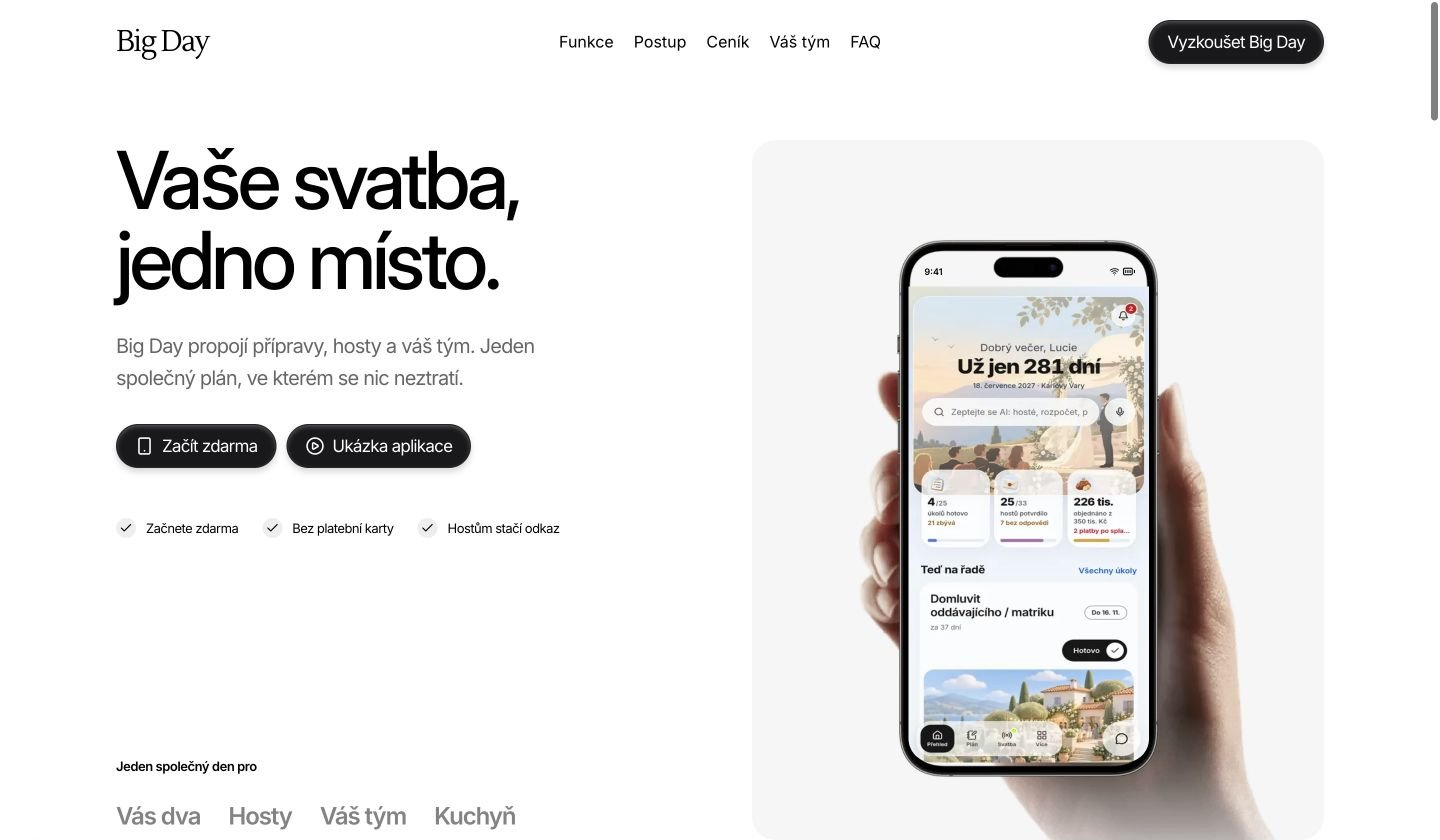
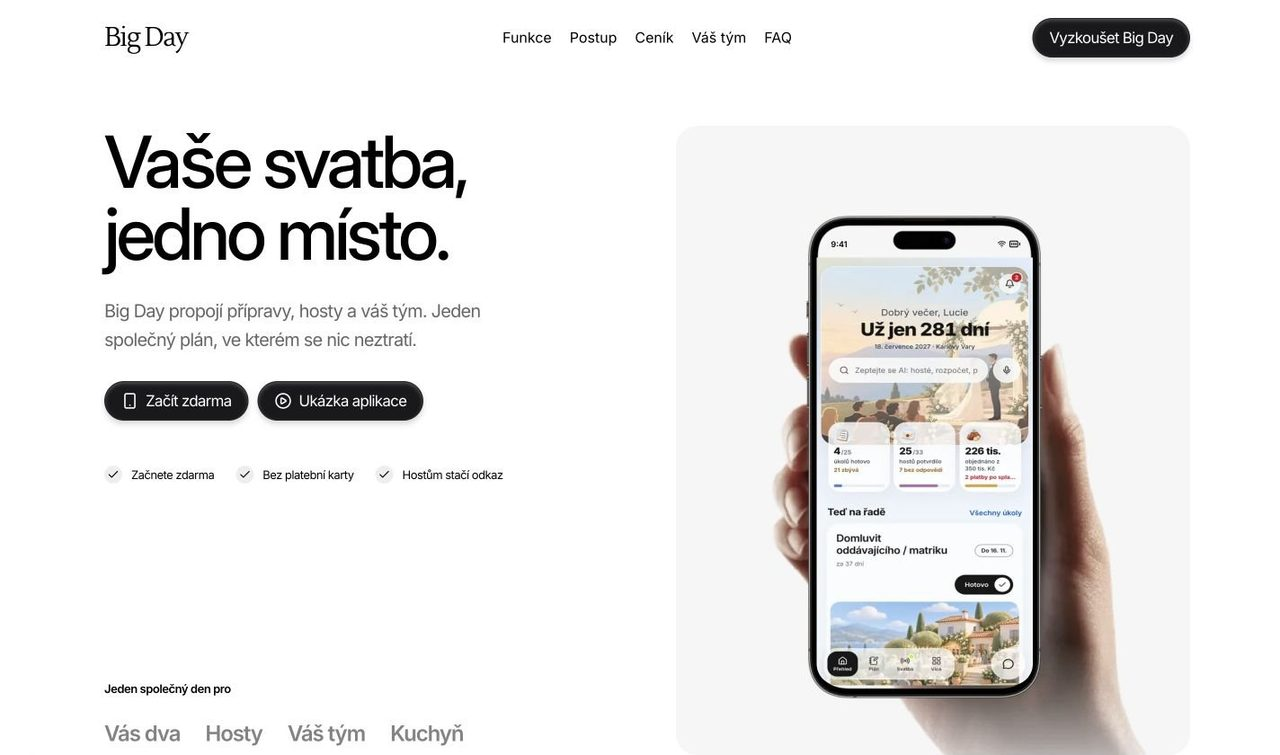
Portfolio: ukázky v rámečcích zařízení, živý prototyp Coach v telefonu, nové screenshoty
Claude-Session: https://claude.ai/code/session_01WdvKpJUzqNwqn5TbK6aWfq

diff --git a/index.html b/index.html
@@ -77,6 +77,51 @@ footer p{margin:0;max-width:70ch}
   .phones.four{grid-template-columns:repeat(4,160px)}
 }
 @media (prefers-reduced-motion:reduce){*{transition:none!important}}
+
+:root{--chrome:#ECEFF3;--dot:#C6CBD3;--bezel:#15171B}
+@media (prefers-color-scheme: dark){:root:not([data-theme="light"]){--chrome:#22252B;--dot:#3B404A}}
+:root[data-theme="dark"]{--chrome:#22252B;--dot:#3B404A}
+html{scroll-behavior:smooth}
+@media (prefers-reduced-motion:reduce){html{scroll-behavior:auto}}
+.project{scroll-margin-top:24px}
+.toc{display:flex;flex-wrap:wrap;gap:8px;margin-top:-40px}
+.toc a{padding:6px 14px;border:1px solid var(--line);border-radius:999px;text-decoration:none;color:var(--fg);font-size:14px}
+.toc a:hover,.toc a:focus-visible{border-color:var(--accent);color:var(--accent)}
+.frame{margin:0;display:flex;flex-direction:column;gap:10px;min-width:0}
+.frame figcaption{font-size:14px;color:var(--muted)}
+.win{border-radius:12px;overflow:hidden;border:1px solid var(--line);background:var(--surface);box-shadow:0 1px 2px rgba(16,24,40,.05),0 14px 34px -14px rgba(16,24,40,.22)}
+.win-bar{display:flex;align-items:center;gap:12px;height:34px;padding:0 14px;background:var(--chrome);border-bottom:1px solid var(--line)}
+.dots{display:flex;gap:6px;flex-shrink:0}.dots i{width:10px;height:10px;border-radius:50%;background:var(--dot)}
+.addr{flex:1;min-width:0;max-width:380px;margin:0 auto;height:22px;border-radius:6px;background:var(--bg);color:var(--muted);font:12px/22px var(--mono);text-align:center;overflow:hidden;white-space:nowrap;text-overflow:ellipsis;padding:0 10px}
+.win-title{flex:1;min-width:0;text-align:center;font-size:12.5px;font-weight:500;color:var(--muted);padding-right:46px;overflow:hidden;white-space:nowrap;text-overflow:ellipsis}
+.win a,.win img{display:block}
+.win img{width:100%;height:auto;border:0;border-radius:0}
+.pair{display:grid;grid-template-columns:repeat(2,minmax(0,1fr));gap:20px}
+.mac-wrap{max-width:900px}
+.phone{position:relative;width:100%;aspect-ratio:9/19.5;border-radius:15%/7%;padding:3.4%;background:var(--bezel);box-shadow:inset 0 0 0 1.5px #34373f,0 18px 40px -16px rgba(16,24,40,.38)}
+.phone .screen{position:relative;width:100%;height:100%;border-radius:11.5%/5.3%;overflow:hidden;background:#fff}
+.phone .screen img{width:100%;height:100%;object-fit:cover;object-position:top;display:block;border:0;border-radius:0}
+.phone .island{position:absolute;top:3.1%;left:50%;transform:translateX(-50%);width:28%;height:2.9%;border-radius:999px;background:#000;z-index:3;pointer-events:none}
+.phone-row{display:grid;grid-template-columns:repeat(5,minmax(0,1fr));gap:22px;overflow-x:auto;padding:6px 2px 10px}
+.phone-row figure{margin:0;display:flex;flex-direction:column;gap:10px;align-items:center}
+.phone-row figcaption{font-size:13px;color:var(--muted)}
+.coach-demo{display:grid;grid-template-columns:minmax(0,1fr) auto;gap:32px 56px;align-items:center}
+.coach-side{display:flex;flex-direction:column;gap:18px;min-width:0}
+.coach-side p{margin:0;max-width:52ch;text-wrap:pretty}
+.tabs{display:flex;flex-wrap:wrap;gap:8px}
+.tabs button{font:inherit;font-size:14px;font-weight:500;padding:8px 16px;border-radius:999px;border:1px solid var(--line);background:var(--bg);color:var(--fg);cursor:pointer}
+.tabs button[aria-selected="true"]{background:var(--fg);color:var(--bg);border-color:var(--fg)}
+.tabs button:focus-visible{outline:2px solid var(--accent);outline-offset:2px}
+.phone-live{width:320px;max-width:100%}
+.phone-live iframe{position:absolute;top:0;left:0;width:390px;height:844px;border:0;transform-origin:0 0;background:#f9f9f9}
+.hint{font-size:14px;color:var(--muted)}
+@media (max-width:760px){
+  .pair{grid-template-columns:minmax(0,1fr)}
+  .phone-row{grid-template-columns:repeat(5,150px)}
+  .coach-demo{grid-template-columns:minmax(0,1fr);justify-items:center}
+  .coach-side{justify-self:stretch}
+  .toc{margin-top:-24px}
+}
 </style>
 <style>img{max-width:100%}</style>
 </head>
@@ -95,6 +140,8 @@ footer p{margin:0;max-width:70ch}
       <span>Sokolov · práce na dálku i osobně</span>
     </div>
   </header>
+
+  <nav class="toc" aria-label="Projekty"><a href="#p-bigday">Big Day</a><a href="#p-rescue">iPhone Rescue</a><a href="#p-aela">AELA</a><a href="#p-klaster">Klášterní areál Ostrov</a><a href="#p-willy">Willy</a><a href="#p-coach">Coach</a></nav>
 
   <section class="project" aria-labelledby="p-bigday">
     <div class="phead">
@@ -119,17 +166,8 @@ footer p{margin:0;max-width:70ch}
         <p class="stack">Next.js 16 · React 19 · TypeScript · PostgreSQL · Drizzle · PWA · Ollama / OpenAI API</p>
       </div>
     </div>
-    <figure class="shot">
-      <img src="img/bigday-landing.jpg" alt="Úvodní stránka Big Day s nadpisem Vaše svatba, jedno místo a telefonem s aplikací" width="1440" height="840" loading="eager">
-      <figcaption>Úvodní stránka produktu</figcaption>
-    </figure>
-    <div class="phones" role="list" aria-label="Obrazovky aplikace Big Day">
-      <figure role="listitem"><img src="img/bigday-01-prehled.jpg" alt="Přehled s odpočtem dní do svatby a úkoly" width="440" height="956" loading="lazy"><figcaption>Přehled</figcaption></figure>
-      <figure role="listitem"><img src="img/bigday-02-zivy-den.jpg" alt="Živý režim svatebního dne s aktuálním bodem programu" width="440" height="956" loading="lazy"><figcaption>Živý den</figcaption></figure>
-      <figure role="listitem"><img src="img/bigday-03-hoste.jpg" alt="Seznam hostů s potvrzením účasti" width="440" height="956" loading="lazy"><figcaption>Hosté</figcaption></figure>
-      <figure role="listitem"><img src="img/bigday-04-harmonogram.jpg" alt="Harmonogram dne s časy a místy" width="440" height="956" loading="lazy"><figcaption>Harmonogram</figcaption></figure>
-      <figure role="listitem"><img src="img/bigday-05-rozpocet.jpg" alt="Rozpočet svatby s objednanými a zaplacenými položkami" width="440" height="956" loading="lazy"><figcaption>Rozpočet</figcaption></figure>
-    </div>
+    <figure class="frame"><div class="win"><div class="win-bar"><span class="dots" aria-hidden="true"><i></i><i></i><i></i></span><span class="addr">Big Day · úvodní stránka</span></div><a href="img/bigday-landing.jpg" target="_blank" rel="noopener"><img src="img/bigday-landing.jpg" alt="Úvodní stránka Big Day s nadpisem Vaše svatba, jedno místo" width="1280" height="755" loading="eager"></a></div><figcaption>Úvodní stránka produktu</figcaption></figure>
+    <div class="phone-row" role="list" aria-label="Obrazovky aplikace Big Day"><figure role="listitem"><div class="phone"><div class="screen"><img src="img/bigday-01-prehled.jpg" alt="Přehled s odpočtem dní do svatby a úkoly" width="440" height="956" loading="lazy"></div></div><figcaption>Přehled</figcaption></figure><figure role="listitem"><div class="phone"><div class="screen"><img src="img/bigday-02-zivy-den.jpg" alt="Živý režim svatebního dne s aktuálním bodem programu" width="440" height="956" loading="lazy"></div></div><figcaption>Živý den</figcaption></figure><figure role="listitem"><div class="phone"><div class="screen"><img src="img/bigday-03-hoste.jpg" alt="Seznam hostů s potvrzením účasti" width="440" height="956" loading="lazy"></div></div><figcaption>Hosté</figcaption></figure><figure role="listitem"><div class="phone"><div class="screen"><img src="img/bigday-04-harmonogram.jpg" alt="Harmonogram dne s časy a místy" width="440" height="956" loading="lazy"></div></div><figcaption>Harmonogram</figcaption></figure><figure role="listitem"><div class="phone"><div class="screen"><img src="img/bigday-05-rozpocet.jpg" alt="Rozpočet svatby s objednanými a zaplacenými položkami" width="440" height="956" loading="lazy"></div></div><figcaption>Rozpočet</figcaption></figure></div>
   </section>
 
   <hr>
@@ -157,10 +195,7 @@ footer p{margin:0;max-width:70ch}
         <p class="stack">Swift 6 · SwiftUI · macOS 14+ · bez externích knihoven</p>
       </div>
     </div>
-    <figure class="shot">
-      <img src="img/rescue-overview.jpg" alt="Přehled aplikace iPhone Rescue s připojeným iPhonem 14 Pro a mřížkou nástrojů" width="1440" height="1024" loading="lazy">
-      <figcaption>Přehled s ukázkovými daty, žádný skutečný telefon není připojený</figcaption>
-    </figure>
+    <figure class="frame"><div class="win"><div class="win-bar"><span class="dots" aria-hidden="true"><i></i><i></i><i></i></span><span class="win-title">iPhone Rescue</span></div><a href="img/rescue-overview.jpg" target="_blank" rel="noopener"><img src="img/rescue-overview.jpg" alt="Přehled aplikace iPhone Rescue s připojeným iPhonem 14 Pro a mřížkou nástrojů" width="1440" height="1024" loading="lazy"></a></div><figcaption>Přehled s ukázkovými daty, žádný skutečný telefon není připojený</figcaption></figure>
   </section>
 
   <hr>
@@ -187,10 +222,8 @@ footer p{margin:0;max-width:70ch}
         <p class="stack">HTML · CSS · JavaScript · Cloudflare</p>
       </div>
     </div>
-    <figure class="shot">
-      <img src="img/aela-hero.jpg" alt="Úvodní stránka webu AELA s nadpisem Vaše cesta do budoucnosti začíná s námi" width="1440" height="900" loading="lazy">
-      <figcaption>Úvodní stránka</figcaption>
-    </figure>
+    <figure class="frame"><div class="win"><div class="win-bar"><span class="dots" aria-hidden="true"><i></i><i></i><i></i></span><span class="addr">aela.cz</span></div><a href="img/aela-hero.jpg" target="_blank" rel="noopener"><img src="img/aela-hero.jpg" alt="Úvodní stránka webu AELA" width="1280" height="800" loading="lazy"></a></div><figcaption>Úvodní stránka</figcaption></figure>
+    <div class="pair"><figure class="frame"><div class="win"><div class="win-bar"><span class="dots" aria-hidden="true"><i></i><i></i><i></i></span><span class="addr">aela.cz/#sluzby</span></div><a href="img/aela-sluzby.jpg" target="_blank" rel="noopener"><img src="img/aela-sluzby.jpg" alt="Přehled služeb na webu AELA" width="1280" height="800" loading="lazy"></a></div><figcaption>Služby</figcaption></figure><figure class="frame"><div class="win"><div class="win-bar"><span class="dots" aria-hidden="true"><i></i><i></i><i></i></span><span class="addr">aela.cz/#cena</span></div><a href="img/aela-kalkulacka.jpg" target="_blank" rel="noopener"><img src="img/aela-kalkulacka.jpg" alt="Kalkulačka orientační ceny na webu AELA" width="1280" height="800" loading="lazy"></a></div><figcaption>Kalkulačka ceny podle rozsahu</figcaption></figure></div>
   </section>
 
   <hr>
@@ -220,10 +253,8 @@ footer p{margin:0;max-width:70ch}
         <p class="stack">HTML · CSS · JavaScript · PHP · Cloudflare Stream</p>
       </div>
     </div>
-    <figure class="shot">
-      <img src="img/klaster-hero.jpg" alt="Úvodní stránka webu Klášterního areálu Ostrov s nadpisem Barokní klenot, v srdci Ostrova" width="1440" height="900" loading="lazy">
-      <figcaption>Úvodní stránka</figcaption>
-    </figure>
+    <figure class="frame"><div class="win"><div class="win-bar"><span class="dots" aria-hidden="true"><i></i><i></i><i></i></span><span class="addr">klasterniareal-ostrov.cz</span></div><a href="img/klaster-uvod.jpg" target="_blank" rel="noopener"><img src="img/klaster-uvod.jpg" alt="Úvodní stránka webu Klášterního areálu Ostrov" width="1280" height="800" loading="lazy"></a></div><figcaption>Úvodní stránka</figcaption></figure>
+    <div class="pair"><figure class="frame"><div class="win"><div class="win-bar"><span class="dots" aria-hidden="true"><i></i><i></i><i></i></span><span class="addr">klasterniareal-ostrov.cz/osobnosti</span></div><a href="img/klaster-osobnosti.jpg" target="_blank" rel="noopener"><img src="img/klaster-osobnosti.jpg" alt="Přehled osobností areálu s portréty" width="1280" height="800" loading="lazy"></a></div><figcaption>Osobnosti areálu</figcaption></figure><figure class="frame"><div class="win"><div class="win-bar"><span class="dots" aria-hidden="true"><i></i><i></i><i></i></span><span class="addr">klasterniareal-ostrov.cz/osobnost-sibylla-augusta</span></div><a href="img/klaster-profil.jpg" target="_blank" rel="noopener"><img src="img/klaster-profil.jpg" alt="Profil Franzisky Sibylly Augusty Bádenské s portrétem" width="1280" height="800" loading="lazy"></a></div><figcaption>Profil osobnosti s portrétem vytvořeným s AI</figcaption></figure></div>
   </section>
 
   <hr>
@@ -251,10 +282,7 @@ footer p{margin:0;max-width:70ch}
         <p class="stack">Swift · SwiftUI · llama.cpp · lokální AI · ECDSA / AES-GCM</p>
       </div>
     </div>
-    <figure class="shot wide">
-      <img src="img/willy-overview.jpg" alt="Přehled aplikace Willy s výkonem, pamětí a volným místem na disku" width="1100" height="952" loading="lazy">
-      <figcaption>Návrh přehledu stavu Macu s testovacími hodnotami</figcaption>
-    </figure>
+    <figure class="frame mac-wrap"><div class="win"><div class="win-bar"><span class="dots" aria-hidden="true"><i></i><i></i><i></i></span><span class="win-title">Willy</span></div><a href="img/willy-overview.jpg" target="_blank" rel="noopener"><img src="img/willy-overview.jpg" alt="Přehled aplikace Willy s výkonem, pamětí a volným místem na disku" width="1100" height="952" loading="lazy"></a></div><figcaption>Návrh přehledu stavu Macu s testovacími hodnotami</figcaption></figure>
   </section>
 
   <hr>
@@ -265,25 +293,27 @@ footer p{margin:0;max-width:70ch}
       <span class="badge dev">Na začátku vývoje · prototyp</span>
       <span class="kind">mobilní aplikace</span>
     </div>
-    <div class="cols">
-      <div class="lead">
+    <div class="coach-demo">
+      <div class="coach-side">
         <p>Zatím první návrh a prototyp. Tréninková aplikace, která má držet motivaci pomocí cílů, výzev s přáteli a týdenního žebříčku. Odhaduje, kdy uživatel dosáhne svého cíle a s jakou pravděpodobností.</p>
-        <a class="cta" href="coach/prototyp-dnes_11.html" target="_blank" rel="noopener">Proklikat prototyp</a>
+        <div class="tabs" role="tablist" aria-label="Obrazovky prototypu">
+          <button type="button" role="tab" id="ct-dnes" aria-selected="true" aria-controls="coach-frame" data-src="coach/prototyp-dnes_11.html">Dnes</button>
+          <button type="button" role="tab" id="ct-vyzvy" aria-selected="false" aria-controls="coach-frame" data-src="coach/vyzvy.html">Výzvy</button>
+          <button type="button" role="tab" id="ct-komunita" aria-selected="false" aria-controls="coach-frame" data-src="coach/komunita.html">Komunita</button>
+          <button type="button" role="tab" id="ct-profil" aria-selected="false" aria-controls="coach-frame" data-src="coach/profil.html">Profil</button>
+        </div>
+        <p class="hint">Prototyp v telefonu je živý: dá se v něm scrollovat, odškrtávat úkoly a přepínat obrazovky spodní lištou.</p>
+        <a class="cta" href="coach/prototyp-dnes_11.html" target="_blank" rel="noopener">Otevřít na celou obrazovku</a>
+        <div class="built">
+          <h3>Co jsem postavil</h3>
+          <ul>
+            <li>Návrh rozhraní a proklikatelný prototyp čtyř hlavních obrazovek</li>
+            <li>Interakce: plnění úkolů, detail tréninku, přepínání sekcí</li>
+          </ul>
+          <p class="stack">HTML · Tailwind CSS · JavaScript</p>
+        </div>
       </div>
-      <div class="built">
-        <h3>Co jsem postavil</h3>
-        <ul>
-          <li>Návrh rozhraní a proklikatelný prototyp čtyř hlavních obrazovek</li>
-          <li>Interakce: plnění úkolů, detail tréninku, přepínání sekcí</li>
-        </ul>
-        <p class="stack">HTML · Tailwind CSS · JavaScript</p>
-      </div>
-    </div>
-    <div class="phones four" role="list" aria-label="Obrazovky aplikace Coach">
-      <figure role="listitem"><a href="coach/prototyp-dnes_11.html" target="_blank" rel="noopener"><img src="img/coach-prototyp-dnes_11.jpg" alt="Obrazovka Dnes s cílem běhu na 5 km" width="440" height="952" loading="lazy"></a><figcaption>Dnes</figcaption></figure>
-      <figure role="listitem"><a href="coach/vyzvy.html" target="_blank" rel="noopener"><img src="img/coach-vyzvy.jpg" alt="Obrazovka Výzvy s týdenní výzvou" width="440" height="952" loading="lazy"></a><figcaption>Výzvy</figcaption></figure>
-      <figure role="listitem"><a href="coach/komunita.html" target="_blank" rel="noopener"><img src="img/coach-komunita.jpg" alt="Obrazovka Komunita s týdenním žebříčkem" width="440" height="952" loading="lazy"></a><figcaption>Komunita</figcaption></figure>
-      <figure role="listitem"><a href="coach/profil.html" target="_blank" rel="noopener"><img src="img/coach-profil.jpg" alt="Obrazovka Můj profil se statistikami" width="440" height="952" loading="lazy"></a><figcaption>Profil</figcaption></figure>
+      <div class="phone phone-live"><span class="island" aria-hidden="true"></span><div class="screen" id="coach-screen"><iframe id="coach-frame" src="coach/prototyp-dnes_11.html" title="Živý prototyp aplikace Coach" loading="lazy"></iframe></div></div>
     </div>
   </section>
 
@@ -295,5 +325,18 @@ footer p{margin:0;max-width:70ch}
   </footer>
 </div>
 
+
+<script>
+(function(){
+  var scr=document.getElementById('coach-screen'),fr=document.getElementById('coach-frame');
+  if(!scr||!fr)return;
+  function fit(){var w=scr.clientWidth,h=scr.clientHeight,k=w/390;fr.style.height=(h/k)+'px';fr.style.transform='scale('+k+')';}
+  fit(); if(window.ResizeObserver)new ResizeObserver(fit).observe(scr); else window.addEventListener('resize',fit);
+  var tabs=[].slice.call(document.querySelectorAll('.tabs [role=tab]'));
+  function mark(file){tabs.forEach(function(t){t.setAttribute('aria-selected',t.getAttribute('data-src').split('/').pop()===file?'true':'false')})}
+  tabs.forEach(function(t){t.addEventListener('click',function(){fr.src=t.getAttribute('data-src');mark(t.getAttribute('data-src').split('/').pop())})});
+  fr.addEventListener('load',function(){try{mark(fr.contentWindow.location.pathname.split('/').pop())}catch(e){}});
+})();
+</script>
 </body>
 </html>

diff --git a/coach/vyzvy.html b/coach/vyzvy.html
@@ -630,5 +630,9 @@ try {
 
   document.addEventListener('keydown', function (e) { if (e.key === 'Escape') closeWizard(); });
 </script>
+<script>
+/* portfolio: spodní navigace prototypu přepíná mezi obrazovkami */
+document.addEventListener('click',function(e){var b=e.target.closest&&e.target.closest('.nav-item');if(!b)return;var m={'Domů':'prototyp-dnes_11.html','Komunita':'komunita.html','Výzvy':'vyzvy.html','Můj profil':'profil.html'};var t=m[b.getAttribute('data-tab')];if(t&&location.pathname.split('/').pop()!==t){setTimeout(function(){location.href=t},180)}});
+</script>
 </body>
 </html>

diff --git a/coach/komunita.html b/coach/komunita.html
@@ -644,5 +644,9 @@ try {
 
   document.addEventListener('keydown', function (e) { if (e.key === 'Escape') closeSheet(); });
 </script>
+<script>
+/* portfolio: spodní navigace prototypu přepíná mezi obrazovkami */
+document.addEventListener('click',function(e){var b=e.target.closest&&e.target.closest('.nav-item');if(!b)return;var m={'Domů':'prototyp-dnes_11.html','Komunita':'komunita.html','Výzvy':'vyzvy.html','Můj profil':'profil.html'};var t=m[b.getAttribute('data-tab')];if(t&&location.pathname.split('/').pop()!==t){setTimeout(function(){location.href=t},180)}});
+</script>
 </body>
 </html>

diff --git a/coach/profil.html b/coach/profil.html
@@ -443,5 +443,9 @@ try {
 
   document.addEventListener('keydown', function (e) { if (e.key === 'Escape') closeSheet(); });
 </script>
+<script>
+/* portfolio: spodní navigace prototypu přepíná mezi obrazovkami */
+document.addEventListener('click',function(e){var b=e.target.closest&&e.target.closest('.nav-item');if(!b)return;var m={'Domů':'prototyp-dnes_11.html','Komunita':'komunita.html','Výzvy':'vyzvy.html','Můj profil':'profil.html'};var t=m[b.getAttribute('data-tab')];if(t&&location.pathname.split('/').pop()!==t){setTimeout(function(){location.href=t},180)}});
+</script>
 </body>
 </html>

diff --git a/coach/prototyp-dnes_11.html b/coach/prototyp-dnes_11.html
@@ -1505,5 +1505,9 @@ try {
       ['Přidej běh', 'Uber sílu', 'Lehčí týden', 'Zobrazit plán']);
   }
 </script>
+<script>
+/* portfolio: spodní navigace prototypu přepíná mezi obrazovkami */
+document.addEventListener('click',function(e){var b=e.target.closest&&e.target.closest('.nav-item');if(!b)return;var m={'Domů':'prototyp-dnes_11.html','Komunita':'komunita.html','Výzvy':'vyzvy.html','Můj profil':'profil.html'};var t=m[b.getAttribute('data-tab')];if(t&&location.pathname.split('/').pop()!==t){setTimeout(function(){location.href=t},180)}});
+</script>
 </body>
 </html>
